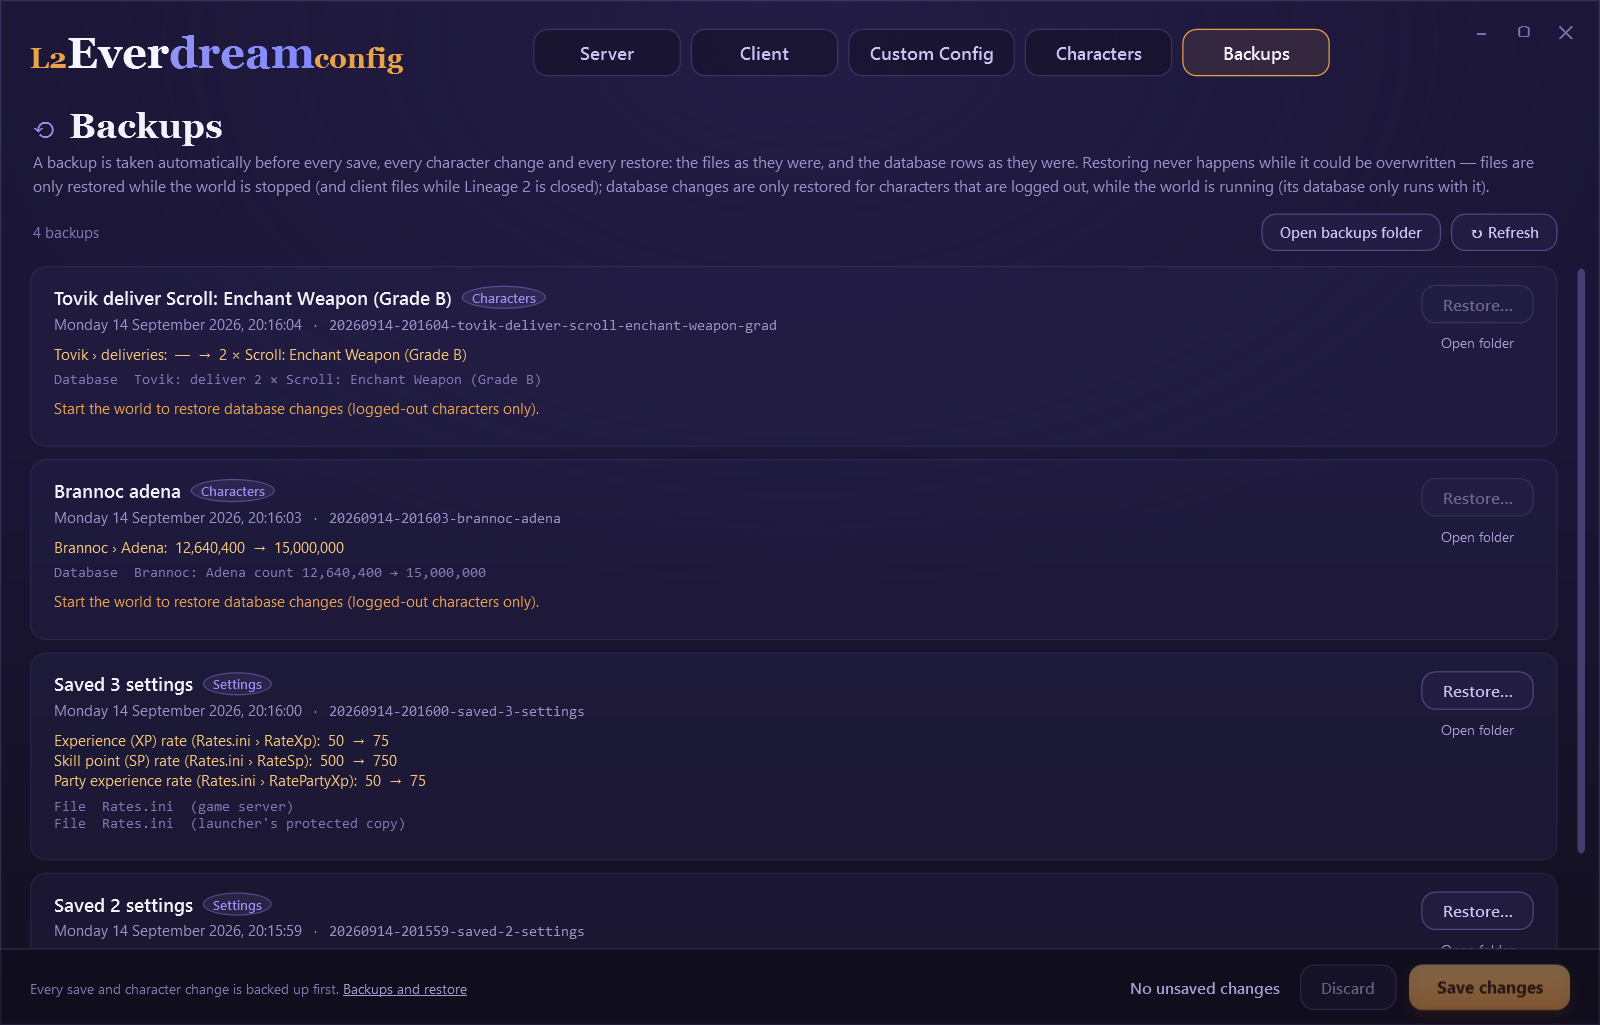
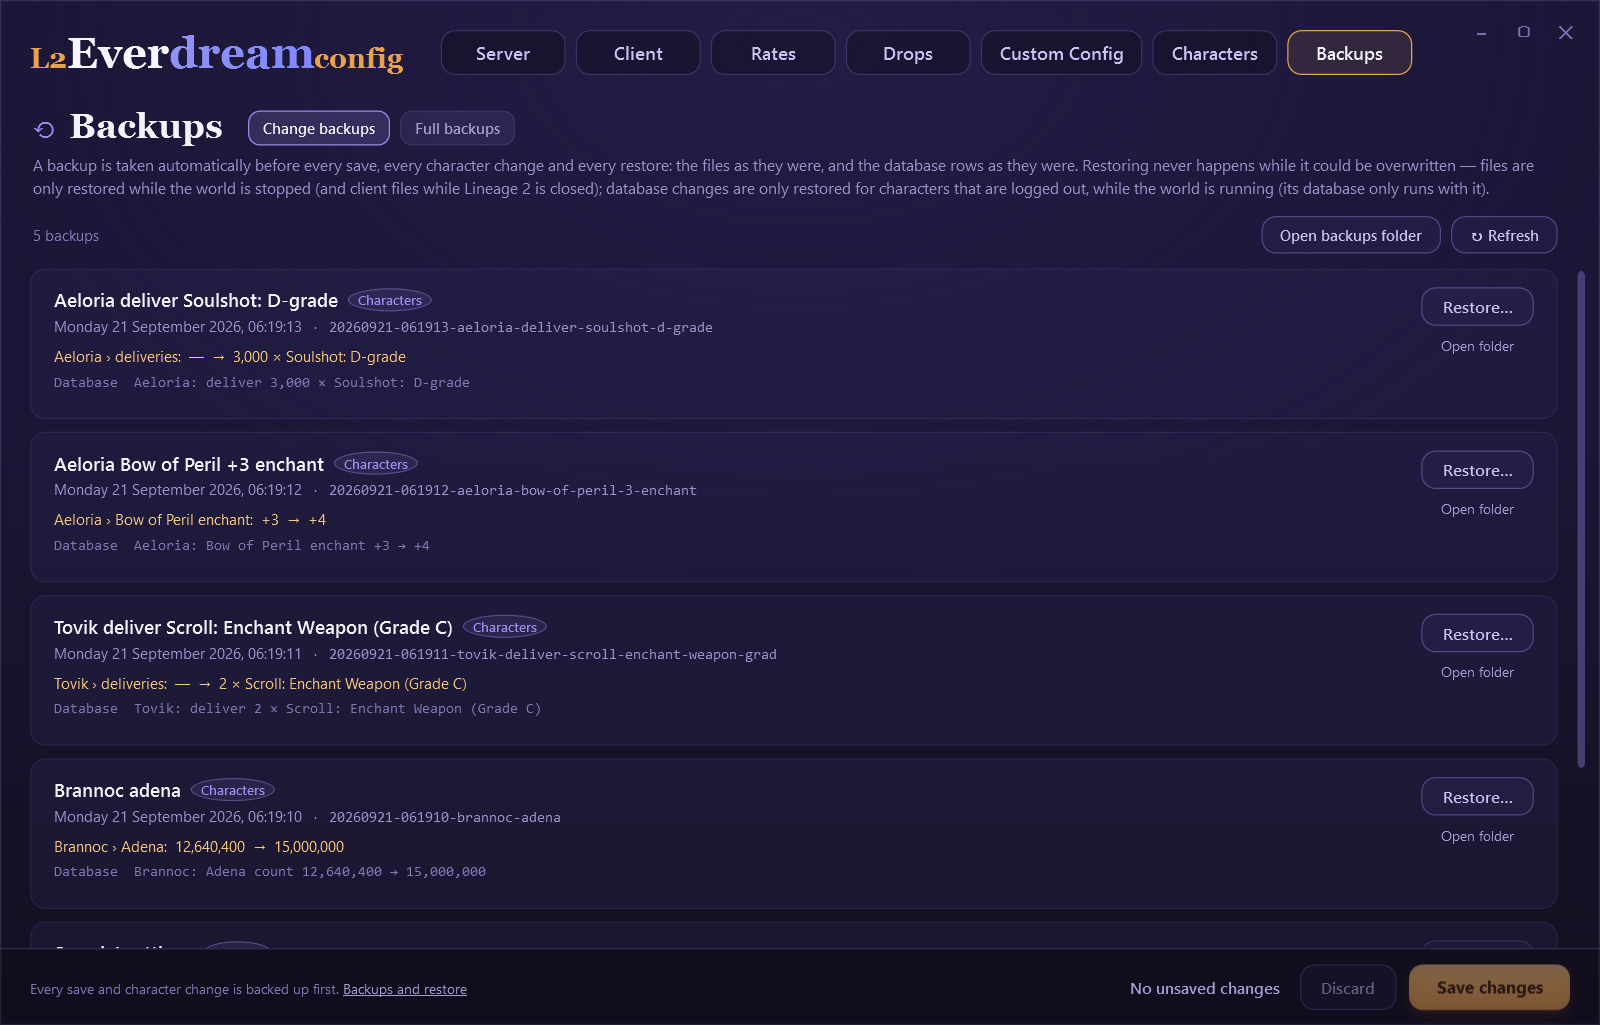
Prepare 1.2.0: checked against world 1.0.146, fresh screenshots, docs
The 0.5.23 launcher update (world 1.0.146) rewrote every config file but
changed nothing the app depends on: the catalog regenerates byte for byte,
the server's drop calculation is bytecode-identical to the previous release,
and the delivery queue is read and cleared the same way. The check is
recorded in the knowledge base.

Fixes a "Spoil" badge that showed on every item in the inventory's item
search; an earlier edit meant for the Drops rows had landed in that template
as well. It was never in a released build.

Every screenshot that still showed the old five tabs is re-taken, the
character screens from a demo world with made-up characters, and the
procedure in PROJECT.md now includes the steps that were missing. The FAQ
explains why added items do not arrive while delivery is off, the developer
page lists the new snapshot options, and the version is 1.2.0.

diff --git a/src/L2Config.App/MainWindow.xaml b/src/L2Config.App/MainWindow.xaml
@@ -550,12 +550,7 @@
                                 <ListBox.ItemTemplate>
                                     <DataTemplate>
                                         <StackPanel>
-                                            <WrapPanel>
-                            <TextBlock Text="{Binding Name}" FontSize="13" FontWeight="SemiBold" Foreground="{StaticResource StarlightBrush}" TextTrimming="CharacterEllipsis" VerticalAlignment="Center" />
-                            <Border Style="{StaticResource Badge}" Background="Transparent" BorderBrush="#4D7C6FB0" Visibility="{Binding IsSpoil, Converter={StaticResource VisibleWhen}}">
-                                <TextBlock Text="Spoil" FontSize="9.5" FontWeight="SemiBold" Foreground="{StaticResource LabelBrush}" />
-                            </Border>
-                        </WrapPanel>
+                                            <TextBlock Text="{Binding Name}" FontSize="13" FontWeight="SemiBold" Foreground="{StaticResource StarlightBrush}" TextTrimming="CharacterEllipsis" />
                                             <TextBlock FontSize="11" Foreground="{StaticResource CaptionBrush}" TextTrimming="CharacterEllipsis">
                                                 <Run Text="{Binding Id, StringFormat=ID {0}  ·  , Mode=OneWay}" /><Run Text="{Binding Description, Mode=OneWay}" />
                                             </TextBlock>

diff --git a/PROJECT.md b/PROJECT.md
@@ -25,7 +25,7 @@ A standalone Windows desktop app (C# / WPF, one self-contained `.exe`, no instal
 | **One rate for the whole world** | The Rates tab turns a single number (3×, 5×, 15×, 20× or typed) into every experience and drop setting it needs, splitting it between drop *chance* and drop *amount* so that chance never climbs past the point where it is wasted. It fills in the Server tab; the normal save bar saves it. |
 | **Drops are their own tab** | The Drops tab is the monster browser the rate is judged by: pick any monster and see experience, every drop and spoil item, how often, how much and the average per kill, with the item icons from the player's own client. It compares any two sets of rates — retail (what a drop table site lists), the world as it is set now, and the rate planned on the Rates tab — so it shows what a world really gives, not only what a change would do. |
 | **Custom Config is read-only** | The tab shows how L2Everdream differs from stock L2J Mobius; it never writes. |
-| **Characters edit the live world carefully** | The Characters tab changes adena and inventory items of player characters in the running world's database. Existing rows change only while the character is **offline** (character row locked, `online = 0` re-checked in the same transaction). **Item rows are never inserted while the server runs** — new items are queued in `custom_mail` and the server delivers them when the character is online (needs `CustomMailManagerEnabled`, explained in the UI). The inventory limit is enforced as the server counts it, including queued deliveries. Sims are hidden. |
+| **Characters edit the live world carefully** | The Characters tab changes adena, inventory items and item enchant levels of player characters in the running world's database. Existing rows change only while the character is **offline** (character row locked, `online = 0` re-checked in the same transaction). **Item rows are never inserted while the server runs** — new items are queued in `custom_mail` and the server delivers them when the character is online (needs `CustomMailManagerEnabled`, explained in the UI). The inventory limit is enforced as the server counts it, including queued deliveries. Sims are hidden. |
 | **Settings explain each other** | Cards show what a setting depends on (and whether it currently has any effect), what it controls and what it works with. |
 | **Everything is backed up, restores never race the world** | Every save, character change and restore first backs up what it replaces (files and database rows). Files are restored only while the world is stopped (client files only while Lineage 2 is closed); database rows only for offline characters while the world runs. |
 | **Full backups before updates** | One button copies every settings file (server, launcher copies and shipped baselines, world, client) into a folder the user chooses — no default, never inside the install folder that updates replace. A full backup is compared with now **setting by setting** and ticked settings are put back one value at a time, with the same restore rules. |
@@ -55,7 +55,7 @@ dotnet test tests/L2Config.Core.Tests
 - No machine-specific paths are committed. This PC's paths live in the git-ignored `CLAUDE.local.md` and `test-paths.local.json`.
 
 **Release builds.** Both are one `L2EverdreamConfig.exe` with the catalog embedded and no side files. The version is `<Version>` in
-`src/L2Config.App/L2Config.App.csproj`, currently 1.1.0.
+`src/L2Config.App/L2Config.App.csproj`, currently 1.2.0.
 
 ```bash
 dotnet publish src/L2Config.App -c Release -r win-x64 --self-contained true -p:PublishSingleFile=true -p:IncludeNativeLibrariesForSelfExtract=true -p:EnableCompressionInSingleFile=true -o publish/standalone
@@ -75,7 +75,7 @@ dotnet publish src/L2Config.App -c Release -r win-x64 --self-contained false -p:
   the exe and `LICENSE.txt`. The release notes list SHA-256 hashes (`certutil -hashfile <zip> SHA256`).
 - Both variants were verified by running the exe alone from an empty folder.
 - `README.md` is the user-facing GitHub page. Keep its numbers (settings, tests, sizes) in step with this file.
-- **Wiki:** `docs/wiki/` is the source of the GitHub wiki: 14 hand-written guide pages, 20 generated settings-reference pages
+- **Wiki:** `docs/wiki/` is the source of the GitHub wiki: 15 hand-written guide pages, 20 generated settings-reference pages
   (`Settings-<Category>.md`) plus `Settings-Reference.md` from `python catalog/build_wiki.py`, and `_Sidebar.md` / `_Footer.md`.
   Regenerate the reference after changing the catalog; never hand-edit the generated pages. Pages link to each other by
   page name and to images on the main branch (`raw.githubusercontent.com/…/main/docs/images/`). Keep it in step with the app and the README.
@@ -83,21 +83,28 @@ dotnet publish src/L2Config.App -c Release -r win-x64 --self-contained false -p:
   `https://github.com/PlexXoniC/L2EverDream.com-Config-Editor.wiki.git`, copy `docs/wiki/*.md` into it, commit and push.
 
 **README screenshots** (`docs/images/*.png`) must show no real folders, account or character names. They are made in snapshot mode
-(1280x820 at 125 % scaling). Screens that show no folder path or character (the full-backup comparison,
-`full-backup-compare.png`: `--tab backups --compare latest --filter all`) may come straight from a real install. Screens whose only
-private detail is the folder path in the folder bar may also come from a real install with that path covered by a solid black bar
-(`skill-durations.png`: `--tab server --skill-durations --edit "SkillDurationList=1085,3600;1087,3600;1354,5400"`, bar over the path at
-x 152–672, y 122–150 of the 1600×1025 image). Screens showing characters or accounts come from a demo world:
+(1280x820 at 125 % scaling). `rates.png` and `drops.png` show no folder bar and no characters, so they come from a real install
+(`--tab rates --rate 5`, `--tab drops --monster Antharas`). Everything else comes from a demo world, which keeps folder paths neutral
+and needs no black bars (a real install with the path covered by a solid black bar also works for a screen whose only private detail is
+the folder bar):
 
-1. Copy an install's `game\config`, `login\config`, `game\data\stats\items`, the data folder's `db\config` and
-   `worlds\world-profile.json`, and a client's `system\*.ini`, into a neutral tree, e.g. `D:\Games\L2Everdream`,
-   `D:\Games\L2Everdream-data` and `D:\Games\Lineage II` (a temporary `subst` drive works; remove it afterwards).
-2. Start a throwaway MariaDB (the install's `db\base\bin\mariadbd.exe --datadir=<temp> --port=33999 --skip-grant-tables`) with the
-   Mobius `characters`, `items` and `custom_mail` tables and made-up characters and items. Point the copy's `Database.ini` at it and
-   turn `CustomMailManagerEnabled` on in the copy.
+1. Copy an install's `game\config`, `login\config`, `game\data\stats\items`, `game\data\EnchantItemData.xml`, `world-release.json`,
+   the data folder's `db\config` and `worlds\world-profile.json`, and a client's `system\*.ini`, into a neutral tree, e.g.
+   `D:\Games\L2Everdream`, `D:\Games\L2Everdream-data` and `D:\Games\Lineage II` (a temporary `subst` drive works; remove it
+   afterwards). For skill durations also copy `game\data\stats\skills`, `game\data\stats\players\skillTrees` and
+   `game\data\SchemeBufferSkills.xml`.
+2. Start a throwaway MariaDB: `db\base\bin\mariadb-install-db.exe --datadir=<temp>`, then the install's
+   `db\base\bin\mariadbd.exe --no-defaults --datadir=<temp> --port=33999 --skip-grant-tables`. The install ships no game SQL, so take
+   the `characters`, `items` and `custom_mail` definitions from a world database with `SHOW CREATE TABLE` (structure only, no rows) and
+   fill them with made-up characters and items. Point both of the copy's `Database.ini` files at it, turn `CustomMailManagerEnabled`
+   on in the copy, and give the copy's `GameserverPort` (install and protected copy) an unused port, so a real world running on this
+   PC does not put "Your world is running" into the folder bar.
 3. Make demo backups into a temporary folder with the Core API (`SettingsStore.Save`, `WorldDatabase.SetItemCountAsync`,
-   `QueueDeliveryAsync`), then render each tab with `--server`, `--client` and `--backups` pointing at the demo.
-4. Stop the database and delete the demo tree.
+   `SetItemEnchantAsync`, `QueueDeliveryAsync`), and a demo full backup with `FullBackupLibrary.Create` followed by a few settings
+   edited in the demo, as an update would. Render each tab with `--server`, `--client`, `--backups` and `--full-backups` pointing at
+   the demo (`skill-durations.png`: `--tab server --skill-durations --edit "SkillDurationList=1085,3600;1087,3600;1354,5400"`;
+   `full-backup-compare.png`: `--tab backups --compare latest --filter all`).
+4. Stop the database, remove the `subst` drive and delete the demo tree.
 
 **Developer snapshot mode** (renders the window to a PNG and exits; uses throwaway preferences and never saves):
 
@@ -464,3 +471,4 @@ behaviour or adding a new file type.
 | 2026-09-20 | Drops tab: draws the monster itself, read from the model in the player's own game client (npcgrp.dat → the .ukx package → a software render); drop groups holding the same item are added up. |
 | 2026-09-20 | Monsters face the viewer, are painted with their own skins (a skin name is a Shader, so its Diffuse texture is followed) and turn on the spot; the package reader and texture decoder are now shared with the item icons. |
 | 2026-09-20 | Inventory: change an item's enchant level (offline, backed up, with the world's own ceiling noted), and a warning across the screen while item delivery is switched off. |
+| 2026-09-21 | Checked against launcher 0.5.23 / world 1.0.146: catalog byte-identical, drop code bytecode-identical, all tests pass (notes in the knowledge base). Fixed a stray "Spoil" badge on the inventory item search results (never released). Every screenshot re-taken, the character screens from a demo world. Version 1.2.0. |

diff --git a/docs/wiki/Troubleshooting-and-FAQ.md b/docs/wiki/Troubleshooting-and-FAQ.md
@@ -53,9 +53,12 @@ characters, keeps inventories under their limit, and backs up everything before 
 Server settings apply the next time you **start your world from the launcher**, and client settings the next time you **start Lineage 2**.
 
 **I added an item, but the character didn't get it.**
-Check the delivery notice on the inventory screen. **Deliver items queued from the database** must be **On**, the world must have been
-restarted since you turned it on, and the character must be **logged in**. The server checks the queue every 30 seconds as shipped. The item
-stays under *Waiting for the server to deliver* until it arrives.
+Look at the top of the inventory screen: while **Deliver items queued from the database** is off, a warning there says so and counts the
+deliveries that will never arrive. Turn it **On**, **Save changes**, **restart the world from the launcher**, then log the character **in**.
+The server checks the queue every 30 seconds as shipped and puts the items straight into the inventory, with a line in chat — Interlude has
+no mail window, so there is nothing to open. The item stays under *Waiting for the server to deliver* until it arrives.
+
+That setting is off as L2Everdream ships, and the launcher does not keep a protected copy of its file, so check it again after an update.
 
 **Can I make buffs last longer?**
 Yes. See [Custom skill durations](Custom-Skill-Durations).
@@ -76,7 +79,8 @@ Take a full backup first: **Backups › Full backups › Back up everything**, t
 
 **Do my changes survive a launcher update?**
 The program writes both the install copy and the launcher's protected copy, which is what the launcher keeps through updates. In the
-0.5.20 update no customised value was lost. A full backup lets you check after every update.
+0.5.20 update no customised value was lost, and the 0.5.23 update (world 1.0.146) kept them too. A full backup lets you check after every
+update.
 
 **I edited a config file by hand and a setting doesn't show its value.**
 The program reads files the way the server does, one `Key = Value` per line. A file whose lines end inconsistently (a mix of Windows and

diff --git a/README.md b/README.md
@@ -44,7 +44,7 @@ The first time, each tab asks for a folder: your L2Everdream install (the one wi
 | **[Client settings](../../wiki/Client-Settings)** | Graphics, sound, interface and connection settings, including the encrypted `l2.ini`. |
 | **[How settings affect each other](../../wiki/How-Settings-Affect-Each-Other)** | Cards say what a setting depends on, when it has no effect right now, and what it controls. |
 | **[Custom Config](../../wiki/Custom-Config)** | A read-only view of how L2Everdream differs from stock L2J Mobius. |
-| **[Characters and inventories](../../wiki/Characters-and-Inventories)** | Adena and items of logged-out characters. New items are handed to the server to deliver, never written behind its back, and inventory limits are enforced as the server counts them. |
+| **[Characters and inventories](../../wiki/Characters-and-Inventories)** | Adena, items and enchant levels of logged-out characters. New items are handed to the server to deliver, never written behind its back, and inventory limits are enforced as the server counts them. |
 | **[Backups and restore](../../wiki/Backups-and-Restore)** | Every save, character change and restore is backed up first, and can be put back. |
 | **[Full backups](../../wiki/Full-Backups-and-Launcher-Updates)** | Back up every settings file before an L2Everdream update, then compare afterwards and tick what you want restored. |
 
@@ -86,7 +86,7 @@ dotnet run --project src/L2Config.App
 |---|---|
 | `src/L2Config.Core` | No UI: catalog, INI editing and the client ini codec, saving, backups and restore, world database, skill and item catalogs |
 | `src/L2Config.App` | The WPF app (MVVM, no UI libraries) |
-| `tests/L2Config.Core.Tests` | 112 xUnit tests |
+| `tests/L2Config.Core.Tests` | 116 xUnit tests |
 | `catalog/` | The friendly layer: curated names and relations, the Python generators, the generated catalog |
 | `docs/wiki/` | The source of the [wiki](../../wiki), including the generated settings reference |
 

diff --git a/research/L2EVERDREAM-KNOWLEDGE.md b/research/L2EVERDREAM-KNOWLEDGE.md
@@ -119,6 +119,19 @@ Measured with SHA-256 fingerprints of the install, `L2Everdream-data` and the wh
 Consequences for this app: compare settings by value (the full-backup comparer does), never assume comment text is
 stable, and do not regenerate catalog descriptions from a post-0.5.20 install (use `seed-data/` and upstream Mobius).
 
+### Checked after launcher 0.5.23 / world 1.0.146 (2026-09-21)
+
+The update rewrote every `game\config` and `login\config` file but kept the player's values, including
+`Custom/CustomMailManager.ini CustomMailManagerEnabled = True`, which has no protected copy. What the app depends on was re-checked:
+
+- `python catalog/build_catalog.py` against the updated install produced a **byte-identical** `catalog.json`: no setting added,
+  removed or reshaped.
+- The drop calculation in `GameServer.jar` (`NpcTemplate`) is **bytecode-identical** to the 0.5.19 copy in the pre-update
+  snapshot, and still reads the same `RatesConfig` fields, so the Rates and Drops arithmetic holds. `CustomMailManager` runs the same
+  `SELECT * FROM custom_mail` / `DELETE … WHERE date=? AND receiver=?`.
+- All tests pass against the updated install and client; the Characters tab reads the updated database. Only runtime client files
+  changed (`l2.ini` from the launcher, `Option.ini` and the shader cache from the game).
+
 ## 4. Boot sequence
 
 `LauncherApp.onStart` → patch DB/port/classmaster files → write arg files → spawn console running

diff --git a/docs/wiki/For-Developers.md b/docs/wiki/For-Developers.md
@@ -83,8 +83,9 @@ python catalog/build_custom_config.py "%LOCALAPPDATA%\L2Everdream"
 Renders the window to a PNG and exits, with throwaway preferences, and never saves:
 
 ```
-L2EverdreamConfig.exe --snapshot out.png --server <dir> --client <dir> --tab server|client|custom|characters|backups
+L2EverdreamConfig.exe --snapshot out.png --server <dir> --client <dir> --tab server|client|rates|drops|custom|characters|backups
   [--category id] [--group id] [--search text] [--edit Key=value] [--advanced] [--size 1280x820]
+  [--rate n --delivery 0..1] [--monster name --view retail-now|now-planned|retail-planned]
   [--inventory <character> --item-search text --item <id> --amount n]
   [--backups <dir>] [--backups-mode full] [--full-backups <dir> --compare <backup folder|latest> --filter changed|shipped|new|all]
   [--skill-durations --filter players|songs|debuffs|npc|changed|all]
